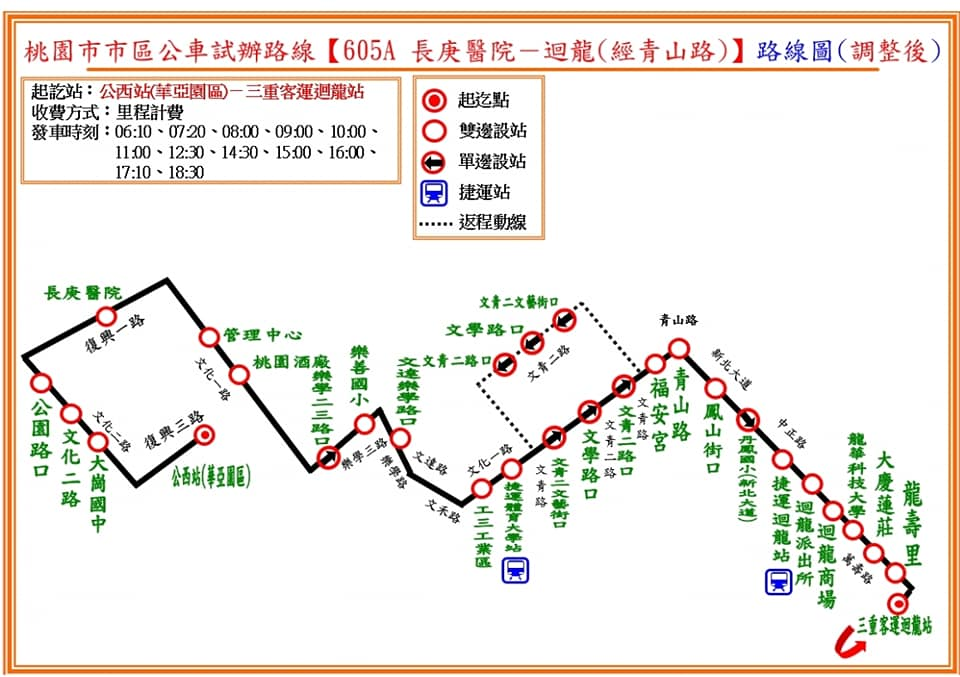
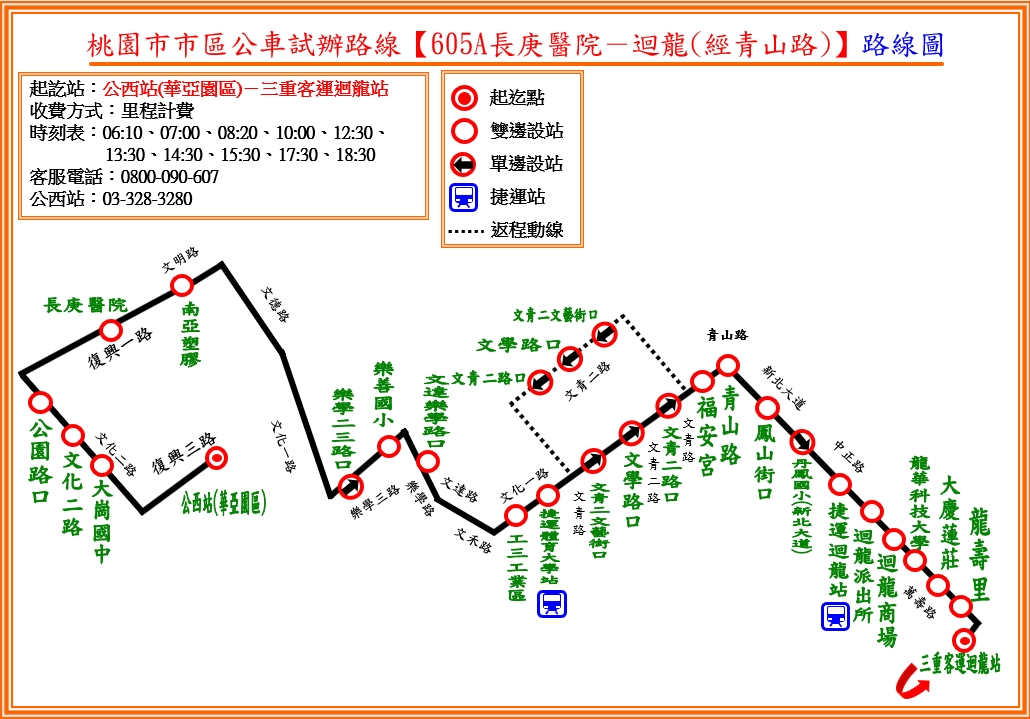
update

Changed region(s): [[0.0, 0.0, 1.0, 1.0]]

diff --git a/A7XLK-13-Transportation.html b/A7XLK-13-Transportation.html
@@ -708,11 +708,14 @@
               <div class="row mb-1">
 
                 <div class="col-md-6">
-                  <h5>605A 公車試營運 </h5> 資料來源 <a href="https://www.facebook.com/groups/1951117865015671/permalink/5126022387525187/">A7重劃區大小事 </a>
+                  <h5>605A 公車試營運 </h5> 資料來源 <a href="https://tyenews.com/2022/07/212198/?fbclid=IwAR0r-pK5IQYLfzSXg2bD9vfeuy9jdHJ7b7Sm7pyKB-7mhAR-OI1iN0sH2q0">桃園電子報 </a> 2022/07/29
                   <ul>
                     <li>路線：605A長庚-迴龍</li>
-                    <li>試辦日期：8月1日起［為期三個月］</li>
-                    <li>備註：603目前維持三輛車運行，605A為二輛車運行 會議紀錄待交通局統一公告 </li>
+                    <li>試辦日期：8月1日 - 10月31日</li>
+                    <li>
+                      班次: 每日10班次往返，共計20班次 06:10, 07:00, 08:20, 10:00, 12:30, 13:30, 14:30, 15:30, 17:30, 18:30
+                    </li>
+                    <li>票價：全程全票31元、半票16元，持市民卡乘車享有買一送一優惠。 </li>
                   </ul>
 
                   <img src="fig/XLK-131-Transportation/A7XLK-1303-Bus-07.jpeg" class="img-fluid" style="width:600px">
